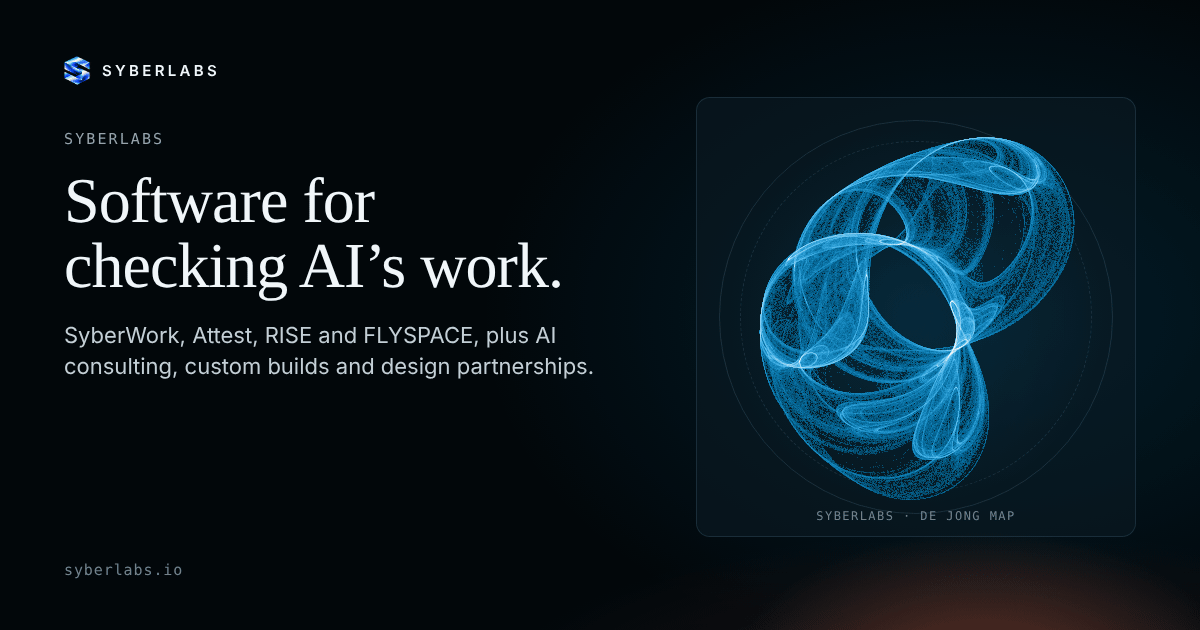
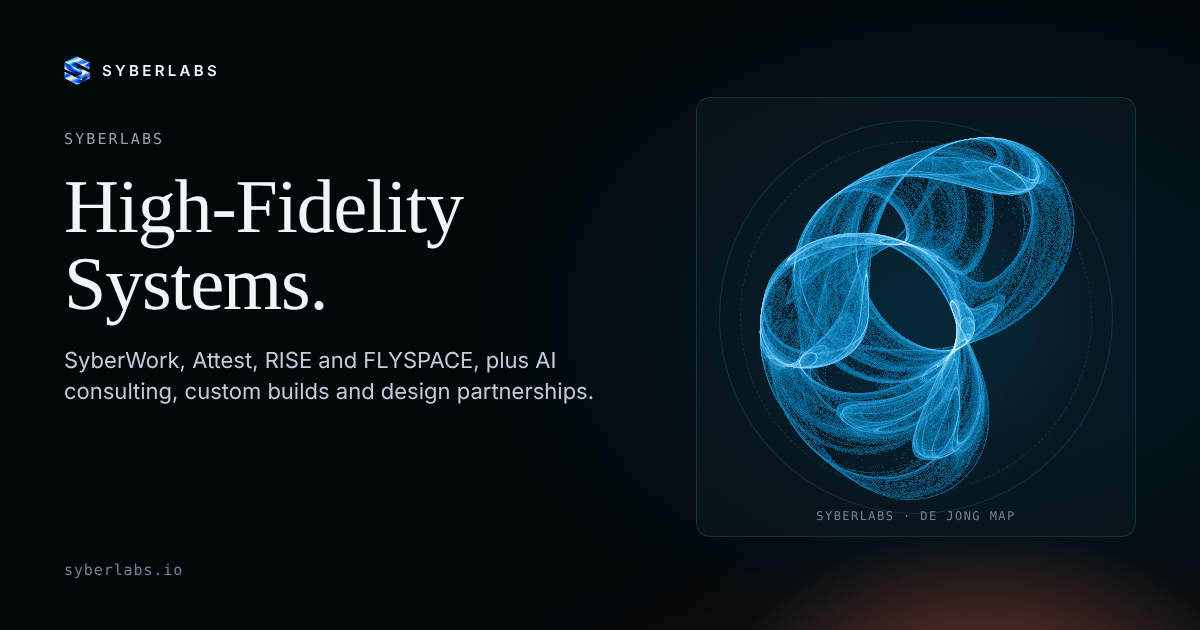
Restore "High-Fidelity Systems" as the tagline
The hero tagline, page title, social card and descriptions carry
"High-Fidelity Systems" again in place of "Software for checking AI's
work". CLAUDE.md records it as the one tagline. The kit README's website
direction now matches the hero as built (tagline, one paragraph, "See the
products", the Approve step).

Claude-Session: https://claude.ai/code/session_01VHrJ4f8BjvjVZ2sSgYszZ8

Changed region(s): [[0.0308, 0.2714, 0.4933, 0.6333]]

diff --git a/index.html b/index.html
@@ -6,7 +6,7 @@
   <script>try{if(!matchMedia('(prefers-reduced-motion: reduce)').matches&&!sessionStorage.getItem('sy-reveal-seen')){document.documentElement.classList.add('sy-reveal');setTimeout(()=>document.documentElement.classList.remove('sy-reveal'),10000)}}catch{}</script>
   <meta name="viewport" content="width=device-width, initial-scale=1.0" />
   <meta name="theme-color" content="#02070a" />
-  <meta name="description" content="SyberLabs makes software for checking AI’s work. SyberWork tests AI-written code changes before a person approves them. Attest runs every step in your docs. RISE is a reading app. FLYSPACE shows which data fed each AI answer. Also: AI consulting, custom builds and design partnerships." />
+  <meta name="description" content="SyberLabs: High-Fidelity Systems. SyberWork tests AI-written code changes before a person approves them. Attest runs every step in your docs. RISE is a reading app. FLYSPACE shows which data fed each AI answer. Also: AI consulting, custom builds and design partnerships." />
   <link rel="canonical" href="https://syberlabs.io/" />
   <link rel="preconnect" href="https://fonts.googleapis.com" />
   <link rel="preconnect" href="https://fonts.gstatic.com" crossorigin />
@@ -15,15 +15,15 @@
   <link rel="apple-touch-icon" href="/apple-touch-icon.png?v=prism" />
   <link rel="manifest" href="/site.webmanifest" />
   <meta property="og:type" content="website" />
-  <meta property="og:title" content="SyberLabs | Software for checking AI’s work" />
-  <meta property="og:description" content="SyberLabs makes software for checking AI’s work. SyberWork tests AI-written code changes before a person approves them. Attest runs every step in your docs. RISE is a reading app. FLYSPACE shows which data fed each AI answer. Also: AI consulting, custom builds and design partnerships." />
+  <meta property="og:title" content="SyberLabs | High-Fidelity Systems" />
+  <meta property="og:description" content="SyberLabs: High-Fidelity Systems. SyberWork tests AI-written code changes before a person approves them. Attest runs every step in your docs. RISE is a reading app. FLYSPACE shows which data fed each AI answer. Also: AI consulting, custom builds and design partnerships." />
   <meta property="og:url" content="https://syberlabs.io/" />
   <meta property="og:image" content="https://syberlabs.io/og/home.png?v=20261113" />
   <meta name="twitter:card" content="summary_large_image" />
-  <meta name="twitter:title" content="SyberLabs | Software for checking AI’s work" />
-  <meta name="twitter:description" content="SyberLabs makes software for checking AI’s work. SyberWork tests AI-written code changes before a person approves them. Attest runs every step in your docs. RISE is a reading app. FLYSPACE shows which data fed each AI answer. Also: AI consulting, custom builds and design partnerships." />
+  <meta name="twitter:title" content="SyberLabs | High-Fidelity Systems" />
+  <meta name="twitter:description" content="SyberLabs: High-Fidelity Systems. SyberWork tests AI-written code changes before a person approves them. Attest runs every step in your docs. RISE is a reading app. FLYSPACE shows which data fed each AI answer. Also: AI consulting, custom builds and design partnerships." />
   <meta name="twitter:image" content="https://syberlabs.io/og/home.png?v=20261113" />
-  <title>SyberLabs | Software for checking AI’s work</title>
+  <title>SyberLabs | High-Fidelity Systems</title>
   <!--email_off-->
   <script type="application/ld+json">
 {
@@ -34,7 +34,7 @@
   "url": "https://syberlabs.io/",
   "logo": "https://syberlabs.io/syber-logo.png",
   "email": "syberlabs.support@gmail.com",
-  "description": "SyberLabs makes software for checking AI's work. Its products are SyberWork, which runs the checks on code changes written by AI agents and requires a person's approval before a change is accepted; Attest, which runs every step in a document or spec against the running app; RISE, a reading app; and FLYSPACE, which shows which data sources fed each AI answer. SyberLabs also offers AI consulting, custom builds and design partnerships.",
+  "description": "SyberLabs builds high-fidelity AI systems. Its products are SyberWork, which runs the checks on code changes written by AI agents and requires a person's approval before a change is accepted; Attest, which runs every step in a document or spec against the running app; RISE, a reading app; and FLYSPACE, which shows which data sources fed each AI answer. SyberLabs also offers AI consulting, custom builds and design partnerships.",
   "foundingDate": "2026",
   "sameAs": [
     "https://github.com/SyberLabs"

diff --git a/src/App.jsx b/src/App.jsx
@@ -69,7 +69,7 @@ export default function App() {
         <div className="pitch-hero__copy sy-wrap">
           <h1 id="hero-title" tabIndex={-1}>
             <span className="pitch-hero__brand" data-text="SyberLabs">SyberLabs</span>
-            <span className="sy-sr">: </span><span className="pitch-hero__tagline">Software for checking AI’s work</span>
+            <span className="sy-sr">: </span><span className="pitch-hero__tagline">High-Fidelity Systems</span>
           </h1>
           <div className="pitch-hero__panel">
             <p className="pitch-hero__line">AI agents write the code. Our software runs every check itself, logs each step in a signed record, and changes your branch only after a person approves. We make four products and build agent systems for clients.</p>

diff --git a/kit/v2/README.md b/kit/v2/README.md
@@ -7,10 +7,10 @@ Files: `syber-atlas.css` (tokens + components), `syber-atmosphere.js` (Plate I e
 
 The current website direction refines this existing kit. It does not introduce a second kit or replace the vendored component API. For the SyberLabs website, the direction below takes precedence over the legacy serif, spectrum and framed-plate presentation described later. Existing app consumers retain their current tokens and components.
 
-- **Palette (Midnight theme, October 30, 2026):** Midnight Black `#02070A` surfaces, off-white text, quiet cool secondary text, Electric Blue `#0297DE` as the system's light (links, focus, structure, the wordmark and the graded Gyre) and Cantaloupe Orange `#FC734D` used a little, as heat: solid action buttons, live signals, the factory's Admit step and the warm horizon under the hero. Text on either colour fill is Midnight (6.3:1 on blue, 7.4:1 on orange; white on the blue fails). The website defines these once as scoped `--sy-*` overrides at the end of `src/syberlabs.css`; this kit file keeps its own tokens for vendored apps. Product artwork (the RISE hero, Midjourney pieces) keeps its own colours. Avoid rainbow emphasis, purple haze and competing accents on this surface.
+- **Palette (Midnight theme, October 30, 2026):** Midnight Black `#02070A` surfaces, off-white text, quiet cool secondary text, Electric Blue `#0297DE` as the system's light (links, focus, structure, the wordmark and the graded Gyre) and Cantaloupe Orange `#FC734D` used a little, as heat: solid action buttons, live signals, the factory's Approve step and the warm horizon under the hero. Text on either colour fill is Midnight (6.3:1 on blue, 7.4:1 on orange; white on the blue fails). The website defines these once as scoped `--sy-*` overrides at the end of `src/syberlabs.css`; this kit file keeps its own tokens for vendored apps. Product artwork (the RISE hero, Midjourney pieces) keeps its own colours. Avoid rainbow emphasis, purple haze and competing accents on this surface.
 - **Typography:** Instrument Sans for headings and body copy, with clean bold names and titles and comfortable line spacing. Use 400/500/600 weights already supported by the kit. Serif and spectrum italics remain available to existing consumers but are not the website hero treatment. Reserve mono for occasional useful metadata.
 - **Composition:** mathematical motion fills the entire hero, including behind the copy. Use a subtle full-width or lower-edge tint and local text shadows for contrast, rather than an opaque left-half mask. Keep generous whitespace and a sparse left-aligned hierarchy. Keep headings, supporting copy and actions as real HTML. Do not recreate the composition as a flattened screenshot or a stack of bordered cards.
-- **Conversion:** the hero leads with the SyberLabs name, one line on what the company builds and its four products, followed by `Book a consultation` as the primary action and `Explore products` as the secondary action. The same action closes the page and stays in the header at every width. Avoid competing hero actions and fabricated customer logos, testimonials, usage statistics or product proof.
+- **Conversion:** the hero leads with the SyberLabs name, the tagline High-Fidelity Systems and one paragraph on what the company builds, followed by `Book a consultation` as the primary action and `See the products` as the secondary action. The four products are listed once, in the Products section directly below the hero. The same action closes the page and stays in the header at every width. Avoid competing hero actions and fabricated customer logos, testimonials, usage statistics or product proof.
 - **Navigation:** keep the header visually quiet. Products, Factory and Services may be prominent, while the existing menu, privacy and account routes must remain reachable and keyboard accessible at every breakpoint. Sparse presentation does not authorize removing functionality.
 - **Responsive media:** choose the mobile crop deliberately so the mathematical subject remains legible and text has its own calm reading area. Use scoped `object-position` or canvas composition changes rather than shrinking the desktop scene wholesale. Let actions wrap or stack without clipping; keep navigation and media controls reachable.
 - **Video:** a product film uses a native `<video controls>` with an accessible name, an appropriate poster, captions for speech and a transcript. Keep native playback and keyboard controls. Show a play affordance only when a working video is available, and derive any duration from the actual asset. Decorative background motion stays muted, has a still fallback, respects reduced motion and can be paused when it runs for more than five seconds. It must never carry essential copy.

diff --git a/CLAUDE.md b/CLAUDE.md
@@ -30,7 +30,8 @@ Every line of public copy states a fact a reader can check or act on. Before
 keeping a line, ask what it tells the reader that they could verify or do; if
 the answer is nothing, delete it.
 
-- No slogans, taglines or metaphors. Say what the thing does: "Tests every
+- The one tagline is "High-Fidelity Systems", under the SyberLabs name. Apart
+  from it, no slogans or metaphors. Say what the thing does: "Tests every
   AI-written code change before a person approves it", not a three-beat motto.
 - Name the actor. SyberWork runs the checks, a person approves, the client
   logs the call. Never use the word "host" in public copy (`scripts/qa.mjs`
